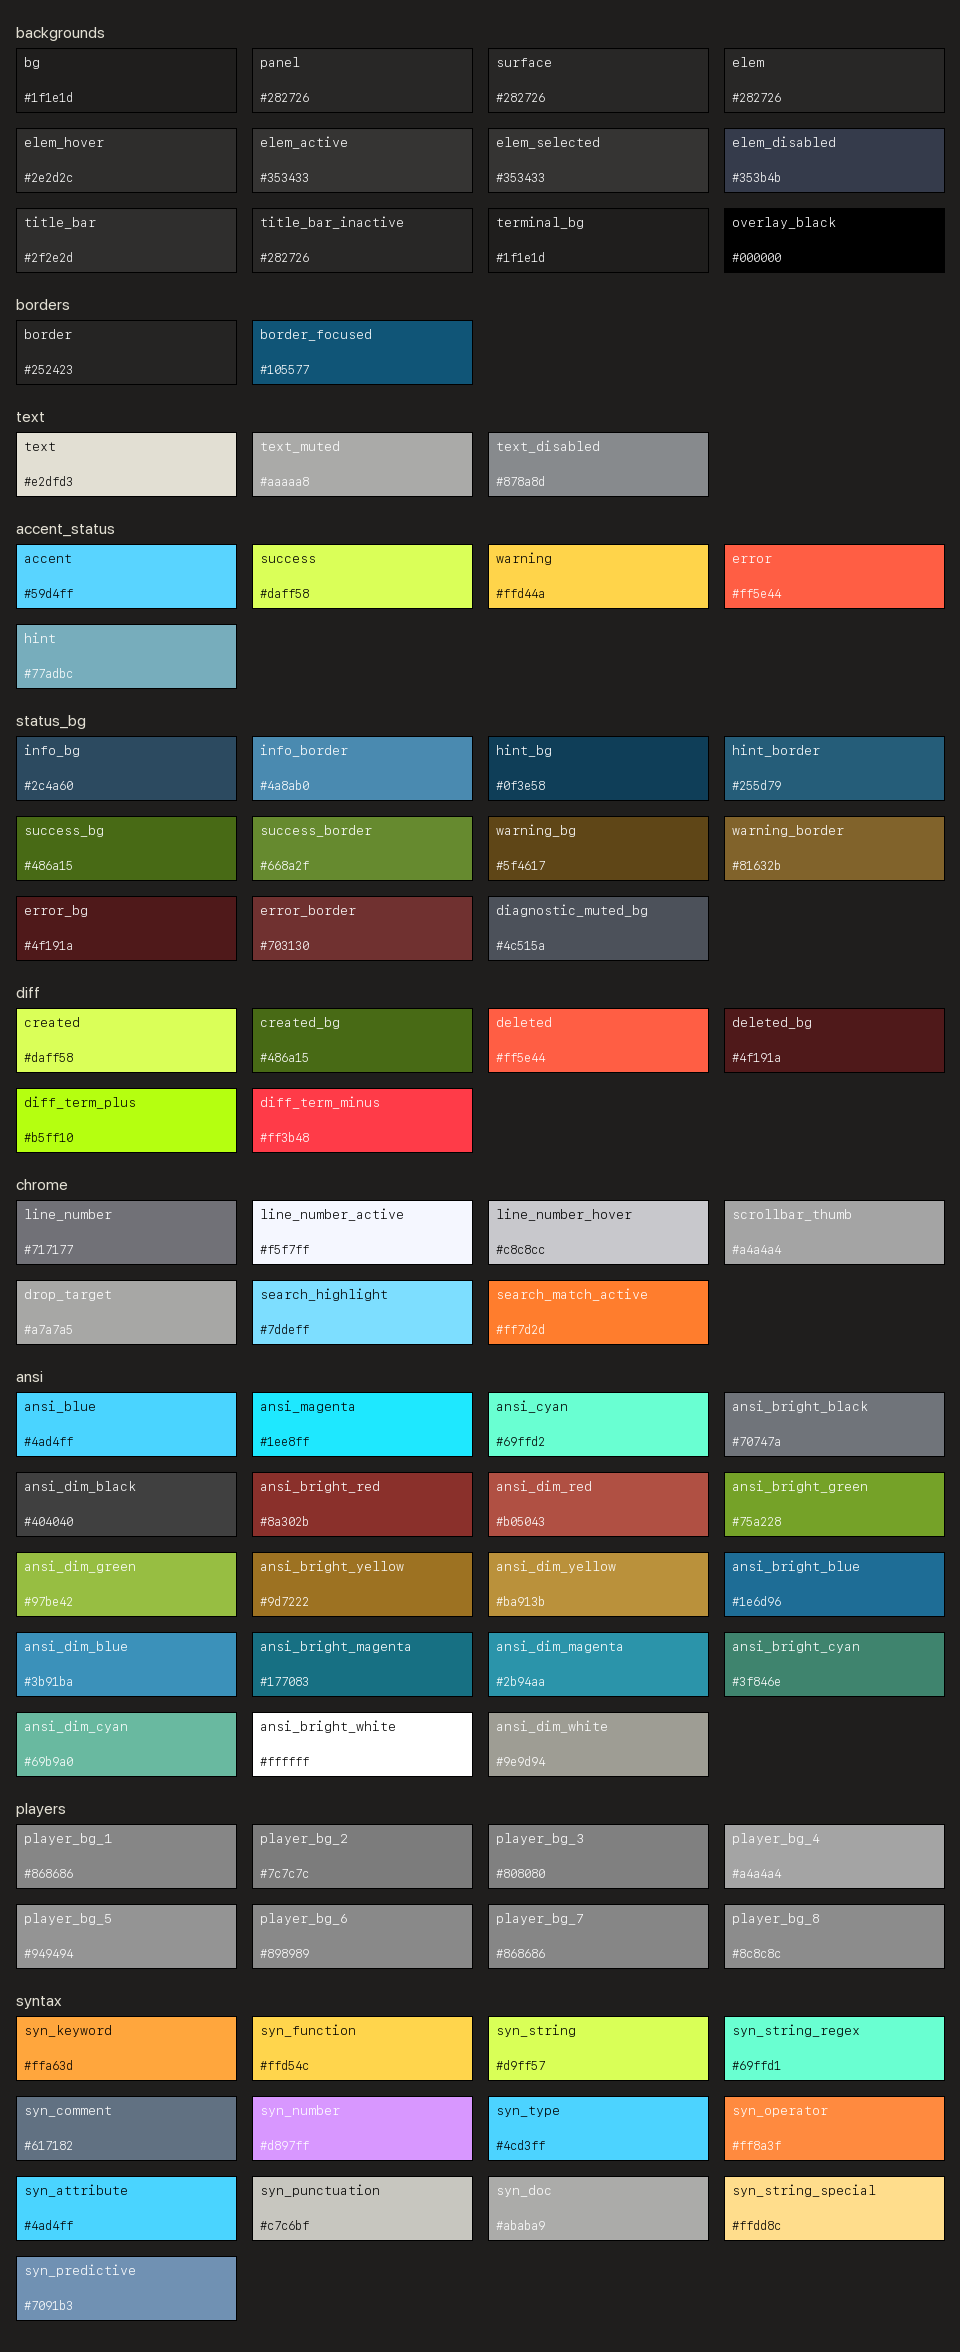
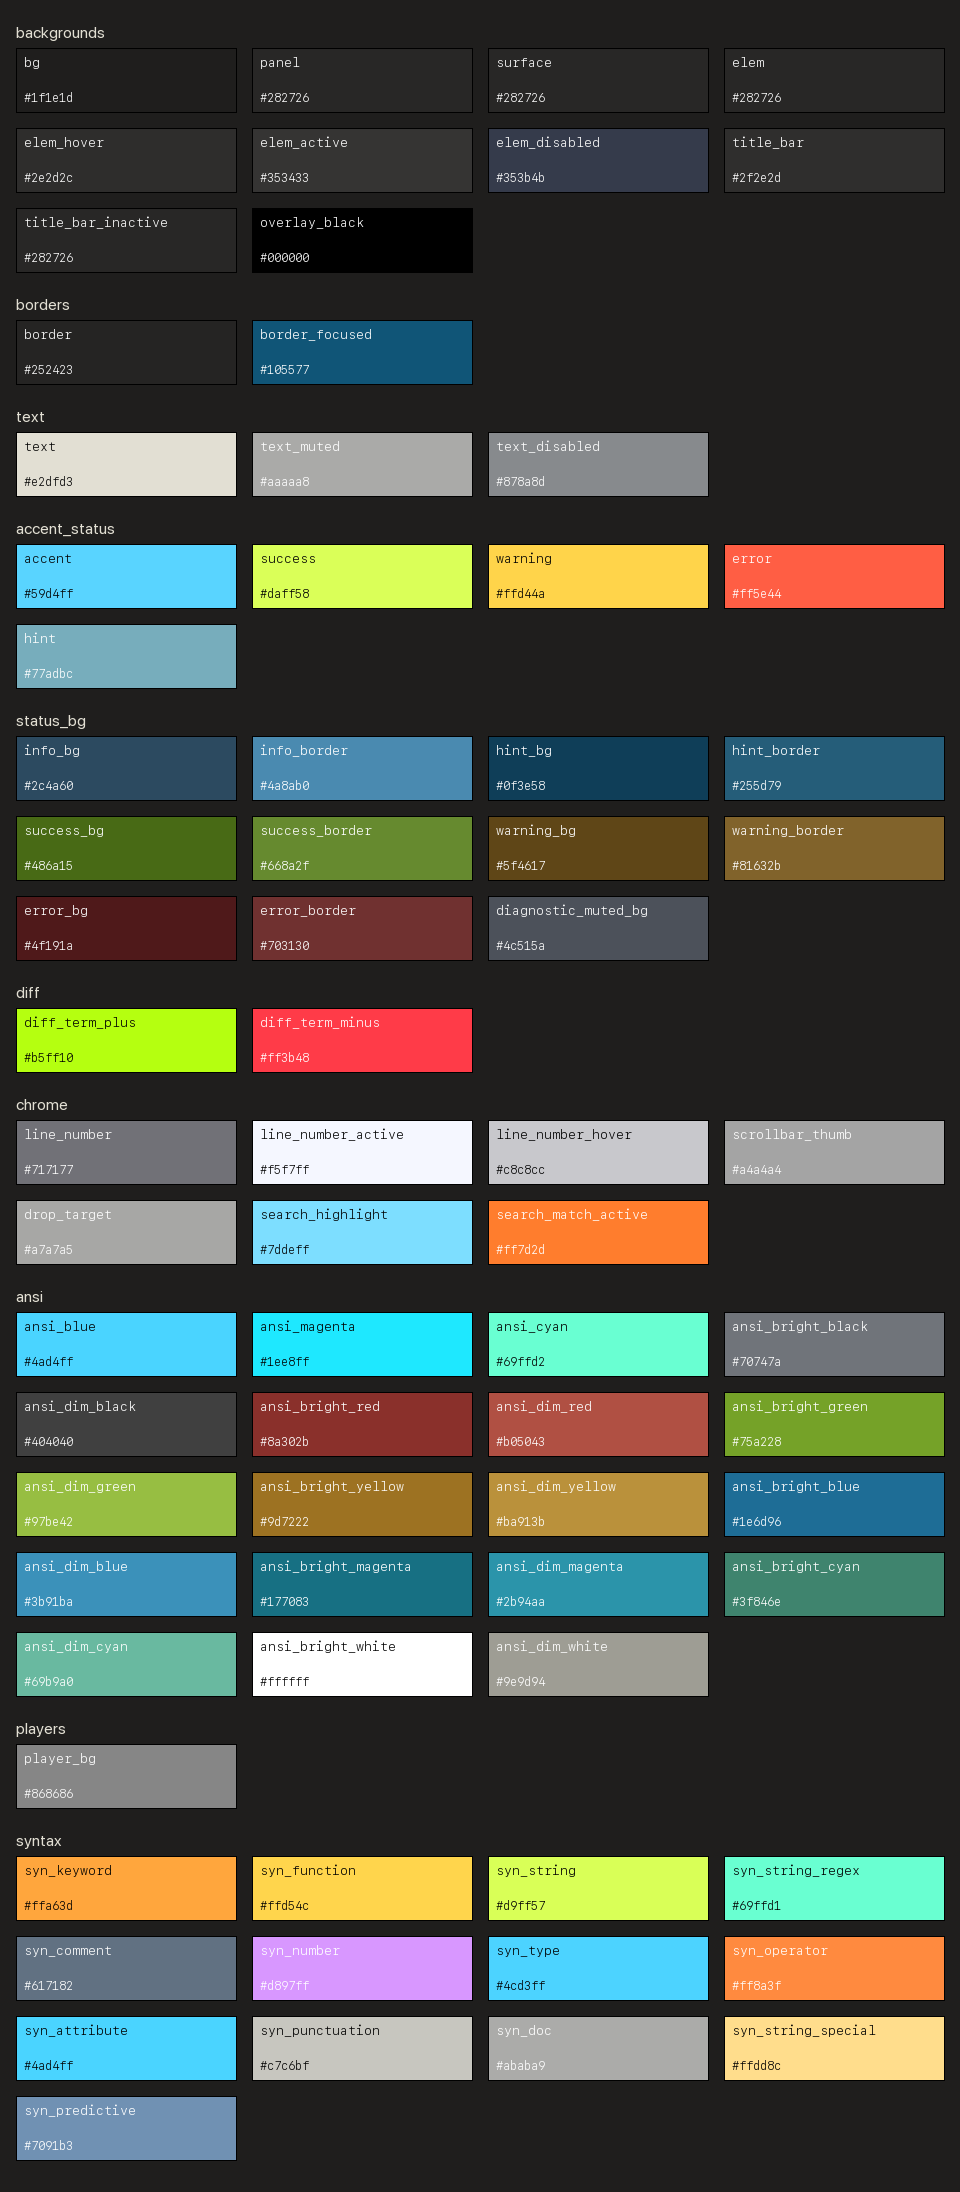
Consolidate palette tokens and update builders
- Remove per-token fields (elem_selected, terminal_bg, created/deleted,
  player_bg_1..8) in favor of unified tokens (elem_active, bg, success,
  success_bg, error, error_bg, player_bg)
- Update all builders (claude, kde, konsole, telegram, telegram_ios,
  terminal, zed) to reference the new tokens
- Adjust high-contrast config accordingly

diff --git a/zed/build.py b/zed/build.py
@@ -49,13 +49,13 @@ def build_zed(p: Palette) -> dict[str, Any]:
         "element.background":          opaque(p.elem),
         "element.hover":               opaque(p.elem_hover),
         "element.active":              opaque(p.elem_active),
-        "element.selected":            opaque(p.elem_selected),
+        "element.selected":            opaque(p.elem_active),
         "element.disabled":            opaque(p.elem_disabled),
         "drop_target.background":      alpha(p.drop_target, "80"),
         "ghost_element.background":    alpha(p.bg, "00"),
         "ghost_element.hover":         opaque(p.elem_hover),
         "ghost_element.active":        opaque(p.elem_active),
-        "ghost_element.selected":      opaque(p.elem_selected),
+        "ghost_element.selected":      opaque(p.elem_active),
         "ghost_element.disabled":      opaque(p.elem_disabled),
 
         "text":             opaque(p.text),
@@ -142,11 +142,11 @@ def build_zed(p: Palette) -> dict[str, Any]:
         "conflict":             opaque(p.warning),
         "conflict.background":  opaque(p.warning_bg),
         "conflict.border":      opaque(p.warning_border),
-        "created":              opaque(p.created),
-        "created.background":   opaque(p.created_bg),
+        "created":              opaque(p.success),
+        "created.background":   opaque(p.success_bg),
         "created.border":       opaque(p.success_border),
-        "deleted":              opaque(p.deleted),
-        "deleted.background":   opaque(p.deleted_bg),
+        "deleted":              opaque(p.error),
+        "deleted.background":   opaque(p.error_bg),
         "deleted.border":       opaque(p.error_border),
         "error":                opaque(p.error),
         "error.background":     opaque(p.error_bg),
@@ -167,7 +167,7 @@ def build_zed(p: Palette) -> dict[str, Any]:
         "modified.background":  opaque(p.warning_bg),
         "modified.border":      opaque(p.warning_border),
         "predictive":           opaque(p.syn_predictive),
-        "predictive.background":opaque(p.created_bg),
+        "predictive.background":opaque(p.success_bg),
         "predictive.border":    opaque(p.success_border),
         "renamed":              opaque(p.ansi_blue),
         "renamed.background":   opaque(p.hint_bg),
@@ -204,15 +204,13 @@ def _build_players(p: Palette) -> list:
         p.ansi_blue, p.ansi_magenta, p.syn_keyword, p.syn_number,
         p.ansi_cyan, p.error, p.warning, p.success,
     ]
-    bg_grays = [p.player_bg_1, p.player_bg_2, p.player_bg_3, p.player_bg_4,
-                p.player_bg_5, p.player_bg_6, p.player_bg_7, p.player_bg_8]
     return [
         {
             "cursor":     opaque(c),
-            "background": opaque(bg),
+            "background": opaque(p.player_bg),
             "selection":  alpha(c, "3d"),
         }
-        for c, bg in zip(cursors, bg_grays)
+        for c in cursors
     ]
 
 

diff --git a/claude/build.py b/claude/build.py
@@ -41,14 +41,14 @@ def build_claude(p: Palette) -> dict:
         "promptBorderShimmer":  p.syn_type,
         "bashBorder":           p.syn_number,
 
-        "diffAdded":             p.created_bg,
-        "diffAddedDimmed":       p.created_bg,
-        "diffAddedWord":         p.created,
-        "diffAddedWordDimmed":   p.created,
-        "diffRemoved":           p.deleted_bg,
-        "diffRemovedDimmed":     p.deleted_bg,
-        "diffRemovedWord":         p.deleted,
-        "diffRemovedWordDimmed": p.deleted,
+        "diffAdded":             p.success_bg,
+        "diffAddedDimmed":       p.success_bg,
+        "diffAddedWord":         p.success,
+        "diffAddedWordDimmed":   p.success,
+        "diffRemoved":           p.error_bg,
+        "diffRemovedDimmed":     p.error_bg,
+        "diffRemovedWord":         p.error,
+        "diffRemovedWordDimmed": p.error,
 
         "red_FOR_SUBAGENTS_ONLY":    p.error,
         "blue_FOR_SUBAGENTS_ONLY":   p.accent,

diff --git a/palette.py b/palette.py
@@ -19,11 +19,9 @@ class Palette:
     elem: str
     elem_hover: str
     elem_active: str
-    elem_selected: str
     elem_disabled: str
     title_bar: str
     title_bar_inactive: str
-    terminal_bg: str
     overlay_black: str
 
     border: str
@@ -51,10 +49,6 @@ class Palette:
     error_border: str
     diagnostic_muted_bg: str
 
-    created: str
-    created_bg: str
-    deleted: str
-    deleted_bg: str
     diff_term_plus: str
     diff_term_minus: str
 
@@ -86,14 +80,7 @@ class Palette:
     ansi_bright_white: str
     ansi_dim_white: str
 
-    player_bg_1: str
-    player_bg_2: str
-    player_bg_3: str
-    player_bg_4: str
-    player_bg_5: str
-    player_bg_6: str
-    player_bg_7: str
-    player_bg_8: str
+    player_bg: str
 
     syn_keyword: str
     syn_function: str

diff --git a/telegram/build.py b/telegram/build.py
@@ -21,7 +21,7 @@ def build_telegram(p: Palette) -> str:
     pairs = [
         ("windowBg",                  p.bg),
         ("windowBgOver",              p.elem_hover),
-        ("windowBgRipple",            p.elem_selected),
+        ("windowBgRipple",            p.elem_active),
         ("windowBgActive",            p.accent),
         ("windowFg",                  p.text),
         ("windowFgOver",              p.text),
@@ -33,7 +33,7 @@ def build_telegram(p: Palette) -> str:
         ("windowActiveTextFg",        p.accent),
 
         ("sideBarBg",                 p.panel),
-        ("sideBarBgActive",           p.elem_selected),
+        ("sideBarBgActive",           p.elem_active),
         ("topBarBg",                  p.title_bar),
 
         ("titleBg",                   p.title_bar_inactive),
@@ -48,7 +48,7 @@ def build_telegram(p: Palette) -> str:
 
         ("dialogsBg",                 p.panel),
         ("dialogsBgOver",             p.elem_hover),
-        ("dialogsBgActive",           p.elem_selected),
+        ("dialogsBgActive",           p.elem_active),
         ("dialogsNameFg",             p.text),
         ("dialogsNameFgActive",       p.text),
         ("dialogsTextFg",             p.text_muted),
@@ -61,9 +61,9 @@ def build_telegram(p: Palette) -> str:
         ("dialogsUnreadFgActive",     p.bg),
 
         ("msgInBg",                   p.surface),
-        ("msgInBgSelected",           p.elem_selected),
+        ("msgInBgSelected",           p.elem_active),
         ("msgOutBg",                  p.elem),
-        ("msgOutBgSelected",          p.elem_selected),
+        ("msgOutBgSelected",          p.elem_active),
         ("msgInDateFg",               p.text_muted),
         ("msgOutDateFg",              p.text_muted),
         ("msgInServiceFg",            p.accent),
@@ -120,7 +120,7 @@ def build_telegram(p: Palette) -> str:
         ("boxDividerFg",              p.elem),
         ("menuBg",                    p.panel),
         ("menuBgOver",                p.elem_hover),
-        ("menuBgRipple",              p.elem_selected),
+        ("menuBgRipple",              p.elem_active),
         ("menuFg",                    p.text),
         ("menuFgDisabled",            p.text_muted),
         ("menuIconFg",                p.text_muted),

diff --git a/konsole/build.py b/konsole/build.py
@@ -20,7 +20,7 @@ def build_konsole(p: Palette) -> dict[str, dict[str, str]]:
     # ANSI 0..7 (normal) + Intense (bright) mirror terminal/build.py.
     # Faint is a dimmed variant Konsole uses for SGR 2 — pick muted siblings.
     # Background uses p.bg (matches Zed's integrated terminal) instead of
-    # p.terminal_bg (which is the darker macOS Terminal.app value).
+    # p.bg (which is the darker macOS Terminal.app value).
     normal = [
         p.bg,             # 0 black
         p.error,          # 1 red
@@ -43,8 +43,8 @@ def build_konsole(p: Palette) -> dict[str, dict[str, str]]:
     ]
     faint = [
         p.bg,
-        p.deleted,
-        p.created,
+        p.error,
+        p.success,
         p.syn_doc,
         p.syn_predictive,
         p.syn_keyword,
@@ -54,7 +54,7 @@ def build_konsole(p: Palette) -> dict[str, dict[str, str]]:
 
     sections: dict[str, dict[str, str]] = {
         "Background":          {"Color": rgb(p.bg)},
-        "BackgroundFaint":     {"Color": rgb(p.terminal_bg)},
+        "BackgroundFaint":     {"Color": rgb(p.bg)},
         "BackgroundIntense":   {"Color": rgb(p.bg)},
         "Foreground":          {"Color": rgb(p.text)},
         "ForegroundFaint":     {"Color": rgb(p.text_muted)},

diff --git a/terminal/build.py b/terminal/build.py
@@ -90,14 +90,14 @@ def build_terminal(p: Palette) -> dict[str, Any]:
 
         "Font": nsfont_archive(FONT_NAME, FONT_SIZE),
 
-        "BackgroundColor": c(p.terminal_bg),
+        "BackgroundColor": c(p.bg),
         "TextColor":       c(p.text),
         "TextBoldColor":   c(p.text),
         "CursorColor":     c(p.accent),
-        "SelectionColor":  c(p.elem_selected),
+        "SelectionColor":  c(p.elem_active),
 
         # Base ANSI 8 — semantic roles match our palette.
-        "ANSIBlackColor":   c(p.terminal_bg),
+        "ANSIBlackColor":   c(p.bg),
         "ANSIRedColor":     c(p.error),
         "ANSIGreenColor":   c(p.success),
         "ANSIYellowColor":  c(p.warning),

diff --git a/telegram_ios/build.py b/telegram_ios/build.py
@@ -76,7 +76,7 @@ def build_ios(p: Palette) -> dict:
                 "badgeStroke": h(p.title_bar),
                 "badgeText": h(p.text),
                 "segmentedBg": h(p.elem),
-                "segmentedFg": h(p.elem_selected),
+                "segmentedFg": h(p.elem_active),
                 "segmentedText": h(p.text),
                 "segmentedDivider": h(p.border),
             },
@@ -164,7 +164,7 @@ def build_ios(p: Palette) -> dict:
             "itemBg": h(p.bg),
             "pinnedItemBg": h(p.panel),
             "itemHighlightedBg": h(p.elem_hover),
-            "itemSelectedBg": h(p.elem_selected),
+            "itemSelectedBg": h(p.elem_active),
             "title": h(p.text),
             "secretTitle": h(p.success),
             "dateText": h(p.text_muted),

diff --git a/kde/build.py b/kde/build.py
@@ -63,7 +63,7 @@ def build_kde(p: Palette) -> dict[str, dict[str, str]]:
         "Colors:Complementary": color_set(p, bg=p.bg,        alt=p.surface,    fg=p.text),
         "Colors:Header":        color_set(p, bg=p.title_bar, alt=p.panel,      fg=p.text),
         "Colors:Header][Inactive": color_set(p, bg=p.title_bar_inactive, alt=p.panel, fg=p.text_muted),
-        "Colors:Selection":     {**color_set(p, bg=p.accent, alt=p.elem_selected, fg=p.bg),
+        "Colors:Selection":     {**color_set(p, bg=p.accent, alt=p.elem_active, fg=p.bg),
                                  # Inside a selection, links/negatives/etc need to read on accent.
                                  "ForegroundActive":   rgb(p.bg),
                                  "ForegroundLink":     rgb(p.bg),